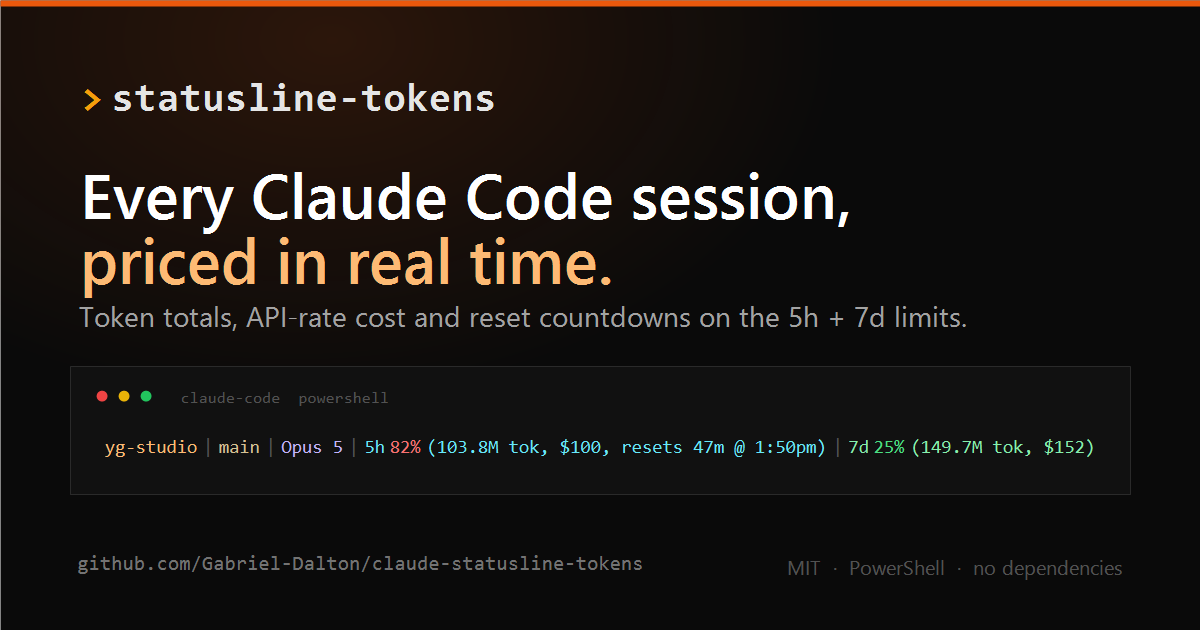
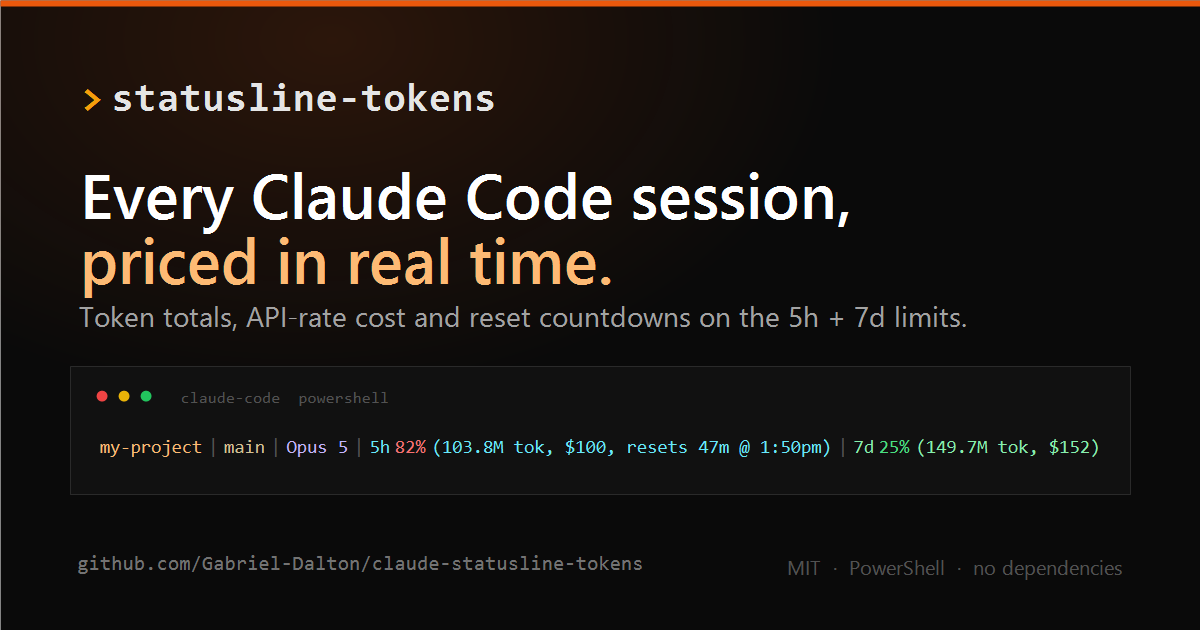
docs: replace real project names and a personal email with placeholders
The README's status line and dashboard samples were pasted from a real
session, so they carried three private client project names and a work
email address into a public repo. Same for llms.txt and the OG card,
which the card generator baked into docs/img/og-card.png.

Also stop tracking .claude/. It held settings.local.json (machine-local
permission entries with absolute home paths) and a whole stale agent
worktree — a second copy of the README with the same email in it.

Changed region(s): [[0.0617, 0.6937, 0.925, 0.7238]]

diff --git a/README.md b/README.md
@@ -54,7 +54,7 @@ powershell -NoProfile -ExecutionPolicy Bypass `
 ```
 
 ```
-CLAUDE USAGE DASHBOARD                          you@example.com
+CLAUDE USAGE DASHBOARD                                        you@example.com
 
 5-HOUR WINDOW       ████████████░░░░░░░░░░░░░░░░░░  43%  28.2M tok   $117
      oldest turn rolls out in 4h 26m    opus 322.1M  |  sonnet 0  |  haiku 541.9k
@@ -68,9 +68,9 @@ LOOP WATCH          quiet - 9 of last 10 tool turns distinct
 PRICIEST TURN       $0.42 (612.4k tok) at 12:19
 
 TOP PROJECTS (7d)                    TOP MODELS (7d)
-my-app           137.8M   opus       322.1M       $928
-docs-site                  68.7M   sonnet          0      $0.00
-my-project                43.8M   haiku       541.9k     $0.14
+my-app                      137.8M   opus       322.1M       $928
+docs-site                    68.7M   sonnet          0      $0.00
+api-service                  43.8M   haiku       541.9k     $0.14
 
 RECENT ACTIVITY (last 24h, per hour)
         ▁▅▆▇█          ▃
